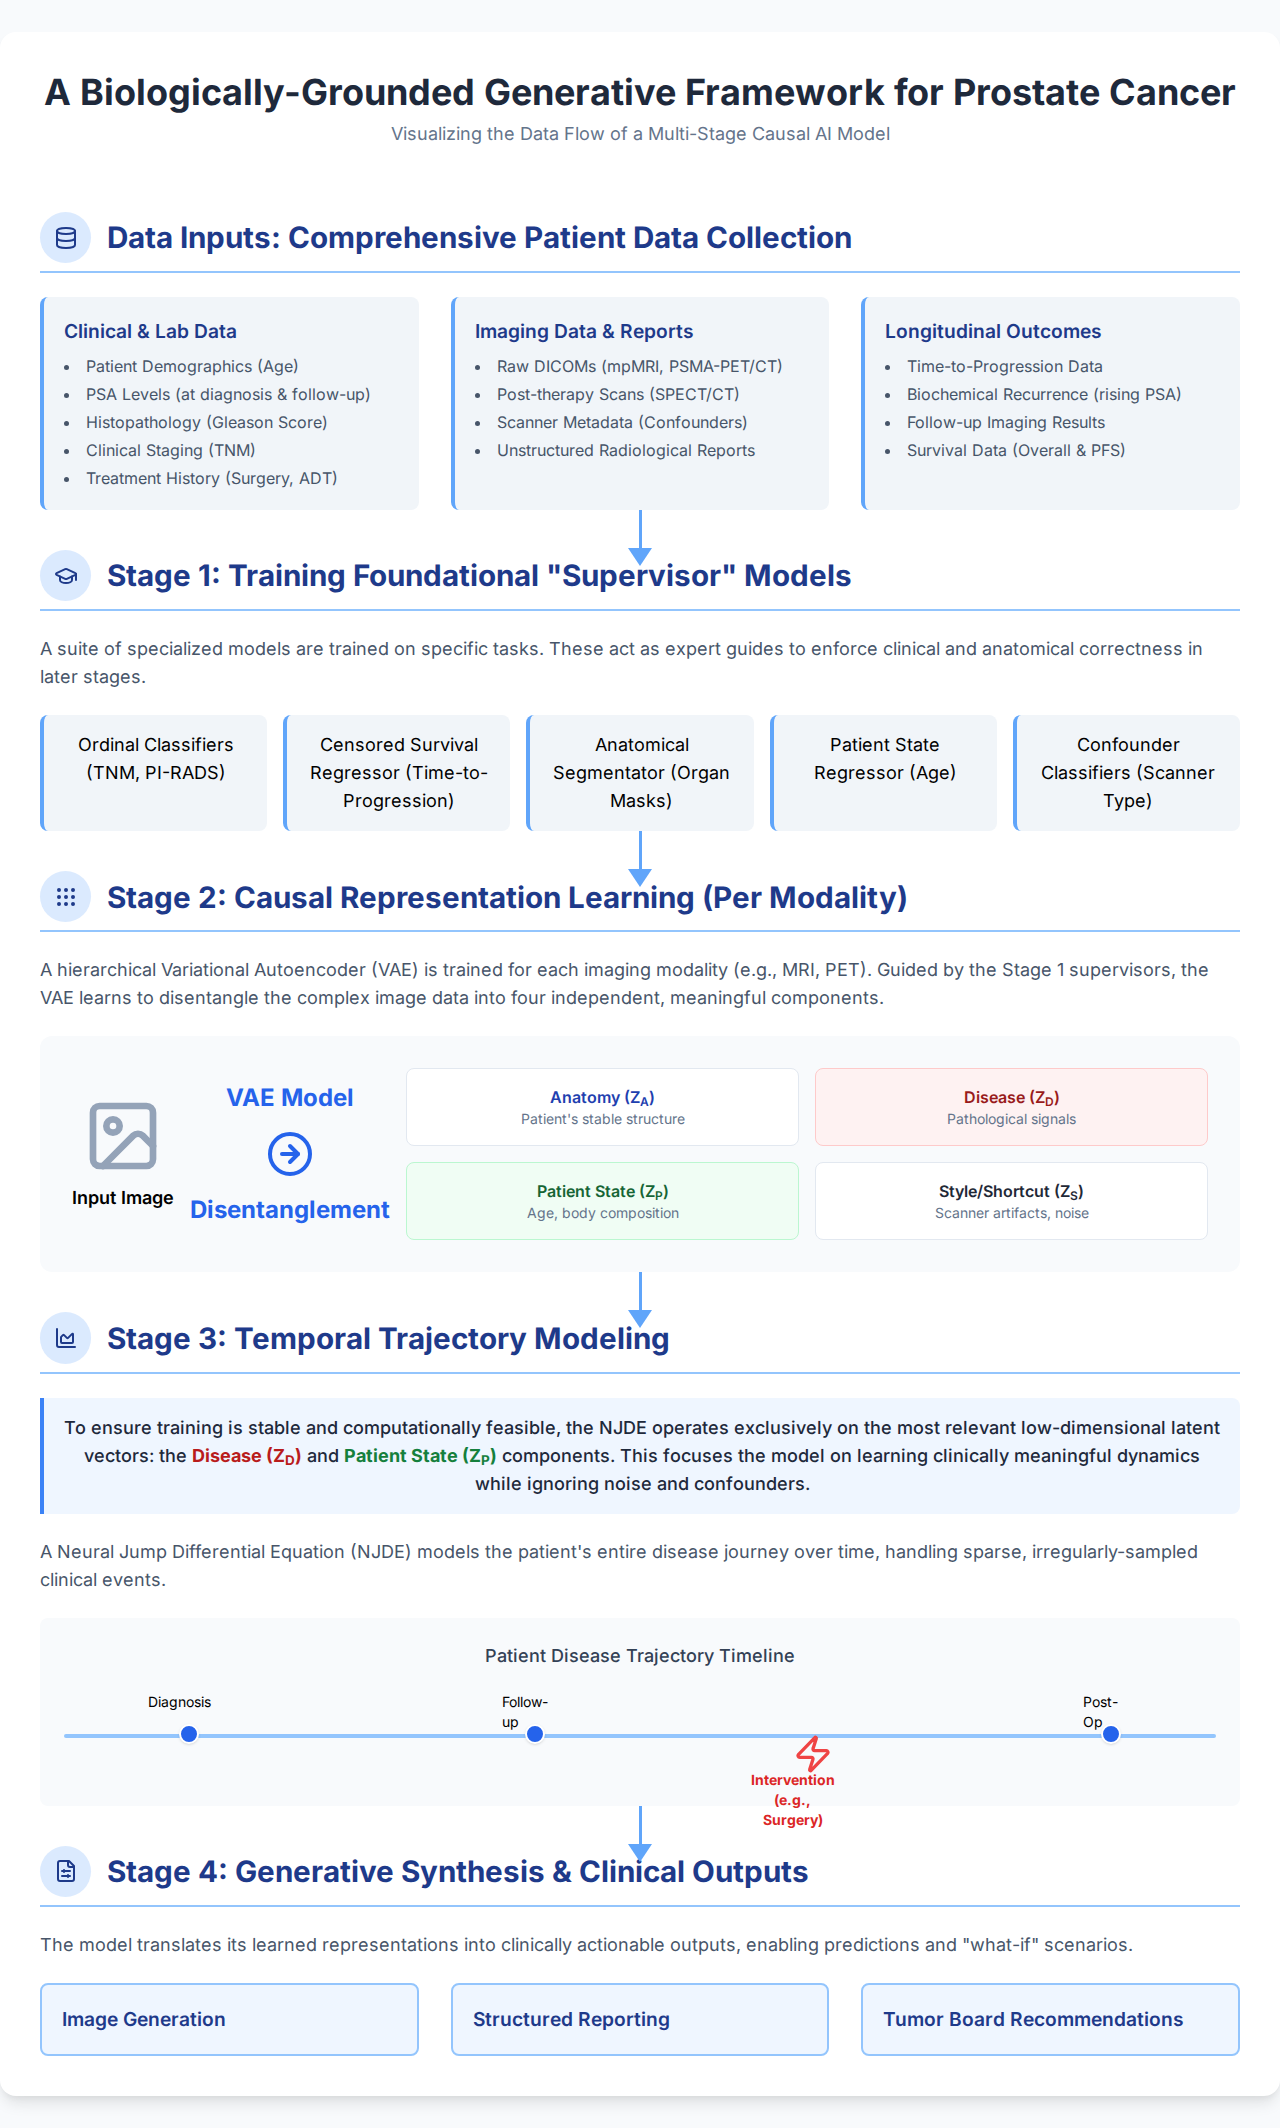
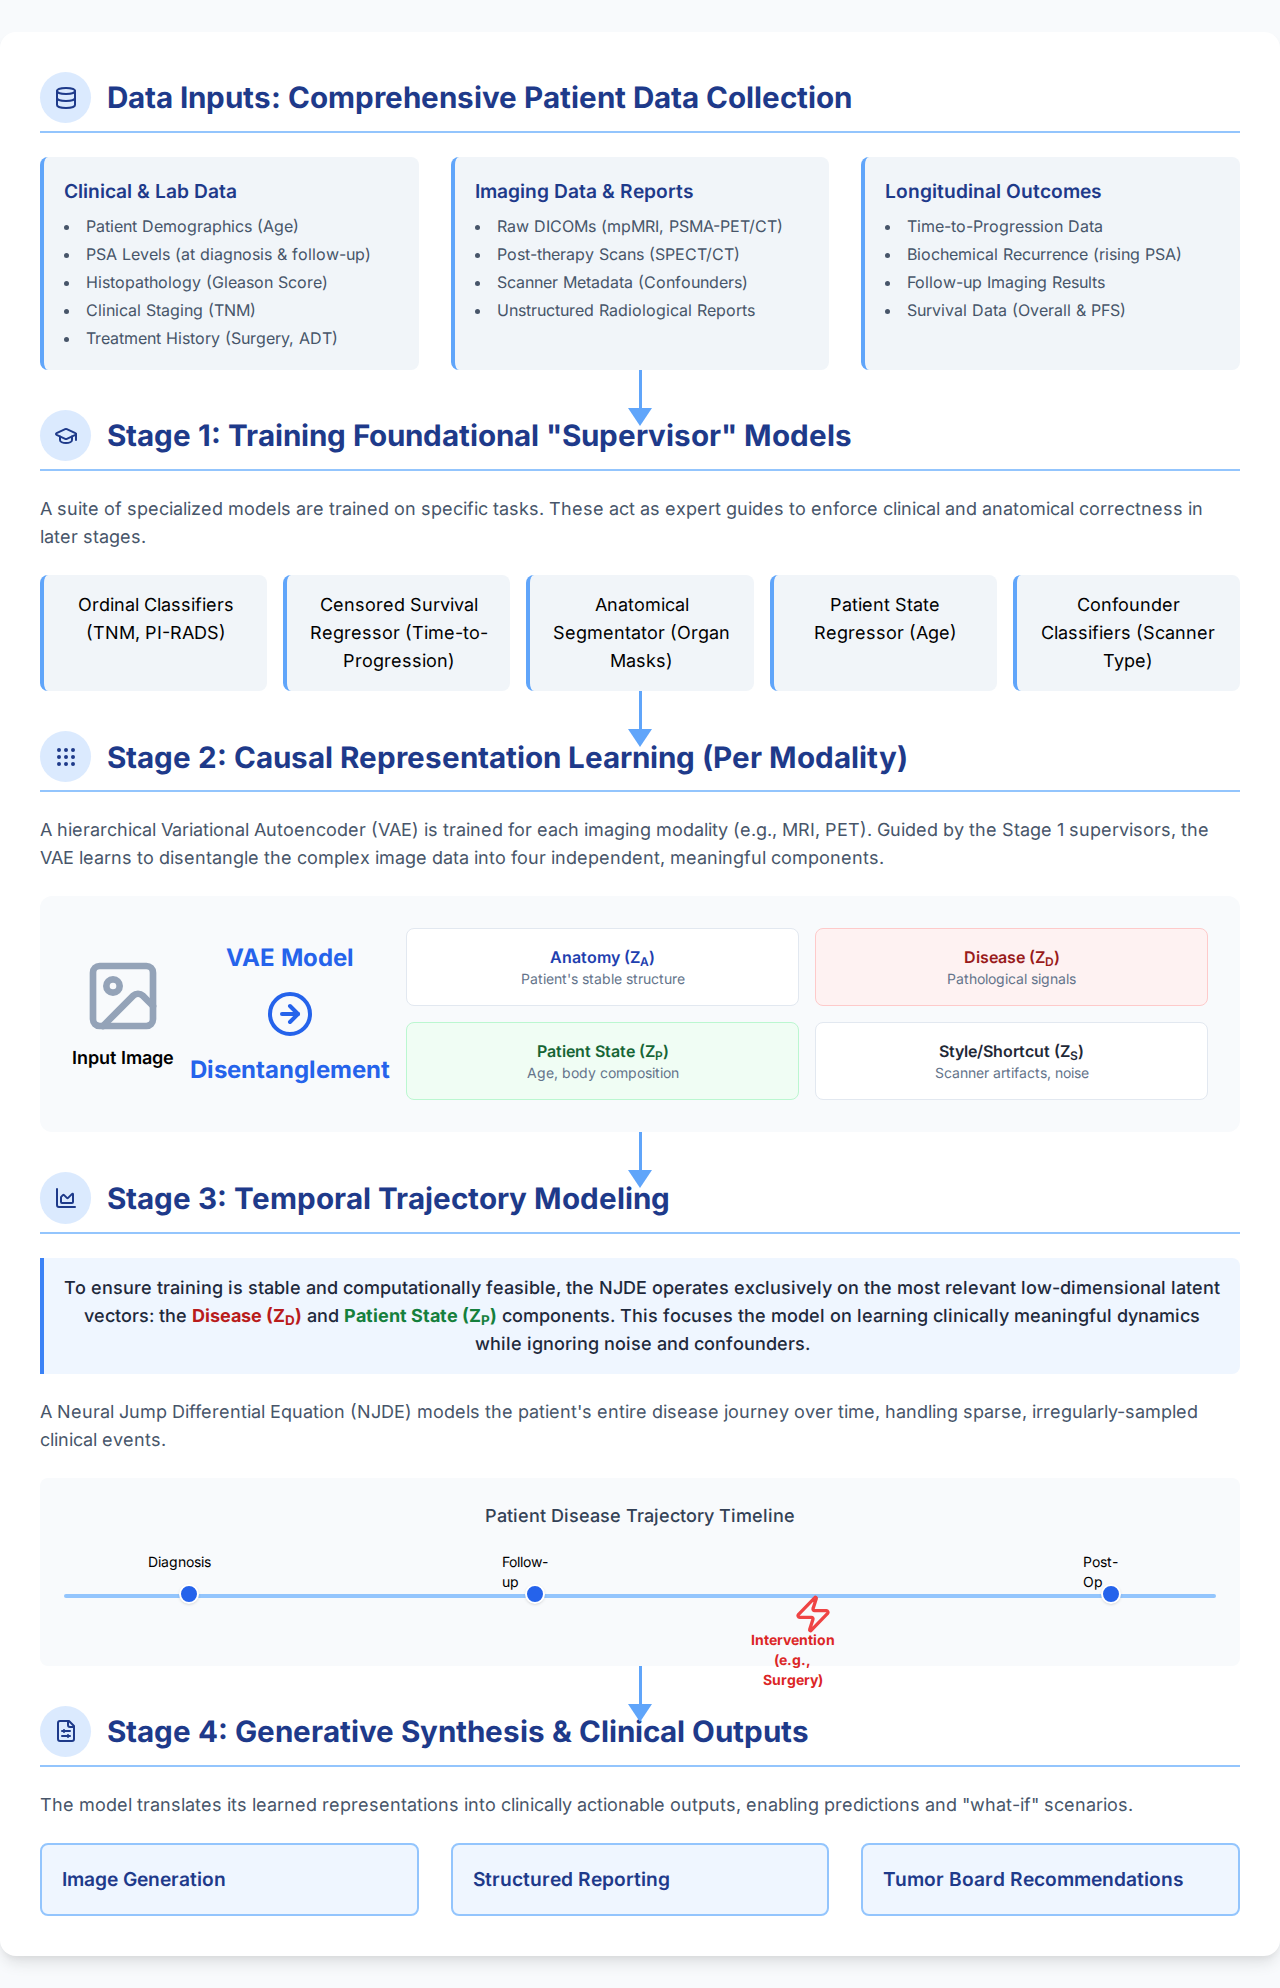
Refine grant proposal and update HTML figure
- Adds an abstract to main_horizon.tex.
- Clarifies that the AI framework supports multiple tumour boards.
- Restructures the "Implementation" section by fusing tables and reordering content for better readability.
- Elaborates on verifiable milestones with quantifiable metrics.
- Corrects a broken table reference.
- Removes the title and header from ml.html to fix a layout issue.

Changed region(s): [[0.0312, 0.0312, 0.9688, 0.9668], [0.0938, 0.7797, 0.1875, 0.8421], [0.8438, 0.7797, 0.875, 0.8421]]

diff --git a/ml.html b/ml.html
@@ -3,7 +3,6 @@
 <head>
     <meta charset="UTF-8">
     <meta name="viewport" content="width=device-width, initial-scale=1.0">
-    <title>Data Flow: A Biologically-Grounded Generative Framework for Prostate Cancer</title>
     <script src="https://cdn.tailwindcss.com"></script>
     <link href="https://fonts.googleapis.com/css2?family=Inter:wght@400;500;600;700&display=swap" rel="stylesheet">
     <script src="https://unpkg.com/lucide@latest"></script>
@@ -111,12 +110,6 @@
 <body class="bg-slate-50">
 
     <div class="infographic-container">
-        <!-- Header -->
-        <header class="text-center mb-16">
-            <h1 class="text-4xl font-bold text-slate-800">A Biologically-Grounded Generative Framework for Prostate Cancer</h1>
-            <p class="text-slate-500 mt-2 text-lg">Visualizing the Data Flow of a Multi-Stage Causal AI Model</p>
-        </header>
-
         <!-- Section 1: Data Inputs -->
         <section id="inputs">
             <h2 class="stage-title">

diff --git a/main_horizon.tex b/main_horizon.tex
@@ -101,6 +101,10 @@
 
 \maketitle
 
+\begin{abstract}
+This project proposes a paradigm shift in the management of prostate cancer (PCa) by developing a novel, causal AI framework. Moving beyond simple prediction, our goal is to create a transparent "digital twin" that models the entire disease trajectory, from diagnosis through treatment. The framework is designed to integrate heterogeneous, irregularly-sampled data from multiple clinical sites—including imaging (MRI, PET/CT, SPECT/CT), lab values (PSA), and clinical notes—and to support decision-making across multiple tumour boards. By learning to disentangle true pathological signals from confounders, the model will generate clinically-intuitive counterfactuals (e.g., "What would this scan look like without the tumour?"), simulate outcomes for different treatment paths, and quantify its own uncertainty. This high-risk, high-gain project aims to establish a new European standard for trustworthy, explainable, and safe medical AI that enhances clinical decision-making, improves patient outcomes, and aligns with the principles of the EU AI Act.
+\end{abstract}
+
 \section{Excellence}
 
 \subsection{Vision: A Paradigm Shift from Prediction to Causal Understanding}
@@ -132,7 +136,7 @@ The applicant institution is uniquely positioned to succeed in this high-risk, h
 \end{itemize}
 Crucially, the project's leadership team possesses a rare and powerful combination of interdisciplinary expertise. The team includes two medical doctors (MDs) with medical PhDs. One leader combines a specialization in nuclear medicine with a Master's degree in IT, providing a direct bridge between clinical application and technical implementation. The second leader holds a dual specialization in both nuclear medicine and radiology, offering an invaluable holistic perspective on the entire imaging pipeline. This unique blend of expertise, combined with our experience in managing patients through the entire spectrum of both early-stage and advanced therapies, ensures that the project is deeply grounded in both the clinical and technical domains—a critical success factor for this ambitious endeavor. The collaboration with external partners, including the Abteilung für Nuklearmedizin at Universitätsmedizin Halle, Universitätsmedizin Charite, and the Radiological Practice Rad. Sudenburg, will provide access to diverse data and clinical perspectives, further strengthening the project's foundation.
 
-This unique blend of expertise is complemented by the applicant's clinic, which has extensive, hands-on experience in managing patients through the entire spectrum of advanced mCRPC therapies. Late-stage prostate cancer, typically referred to as metastatic castration-resistant prostate cancer (mCRPC), is an incurable and fatal disease, despite substantial therapeutic advances \cite{FizaziHerrmann2023, HatanoNonomura2023}. Managing mCRPC is complex, focusing on extending life, delaying disease progression, and maintaining or improving health-related quality of life (HRQOL) \cite{FizaziHerrmann2023}. Our clinical practice routinely administers a wide array of treatments, including second-generation Androgen Receptor Pathway Inhibitors (ARPIs) like abiraterone, enzalutamide, apalutamide, and darolutamide \cite{FizaziHerrmann2023, HatanoNonomura2023, MaLi2022}; taxane-based chemotherapies such as docetaxel and cabazitaxel \cite{FizaziHerrmann2023, HatanoNonomura2023}; immunotherapy with checkpoint inhibitors like Pembrolizumab \cite{MaLi2022, RamnaraignSartor2023}; precision therapies such as PARP inhibitors (Olaparib) for patients with relevant genetic alterations \cite{HatanoNonomura2023, MaLi2022}; and cutting-edge radioligand therapies (RLT) including Lutetium-177 PSMA and bone-targeted agents like Radium-223 \cite{FizaziHerrmann2023, ChandranFigg2022, Keam2022}. The complexity of these cases necessitates regular multidisciplinary tumor boards, where detailed treatment decisions and patient responses are meticulously documented. This rich, real-world documentation provides an unparalleled source of high-quality data, crucial for training a causal model that can accurately learn the effects of different therapeutic interventions.
+This unique blend of expertise is complemented by the applicant's clinic, which has extensive, hands-on experience in managing patients through the entire spectrum of advanced mCRPC therapies. Late-stage prostate cancer, typically referred to as metastatic castration-resistant prostate cancer (mCRPC), is an incurable and fatal disease, despite substantial therapeutic advances \cite{FizaziHerrmann2023, HatanoNonomura2023}. Managing mCRPC is complex, focusing on extending life, delaying disease progression, and maintaining or improving health-related quality of life (HRQOL) \cite{FizaziHerrmann2023}. Our clinical practice routinely administers a wide array of treatments, including second-generation Androgen Receptor Pathway Inhibitors (ARPIs) like abiraterone, enzalutamide, apalutamide, and darolutamide \cite{FizaziHerrmann2023, HatanoNonomura2023, MaLi2022}; taxane-based chemotherapies such as docetaxel and cabazitaxel \cite{FizaziHerrmann2023, HatanoNonomura2023}; immunotherapy with checkpoint inhibitors like Pembrolizumab \cite{MaLi2022, RamnaraignSartor2023}; precision therapies such as PARP inhibitors (Olaparib) for patients with relevant genetic alterations \cite{HatanoNonomura2023, MaLi2022}; and cutting-edge radioligand therapies (RLT) including Lutetium-177 PSMA and bone-targeted agents like Radium-223 \cite{FizaziHerrmann2023, ChandranFigg2022, Keam2022}. The complexity of these cases necessitates regular multidisciplinary tumor boards, where detailed treatment decisions and patient responses are meticulously documented. Our framework is explicitly designed to support and integrate data from multiple such tumour boards across our collaborating institutions, learning from the collective expertise. This rich, real-world documentation provides an unparalleled source of high-quality data, crucial for training a causal model that can accurately learn the effects of different therapeutic interventions.
 
 A key strength of this project is its foundation in a cutting-edge clinical environment defined by the use of Lutetium-177 PSMA (${}^{177}\text{Lu-PSMA-617}$) theranostics, a revolutionary and modern approach for managing mCRPC. This paradigm combines therapy ("thera") and diagnostics ("nostics") by using a single molecular target—the Prostate-Specific Membrane Antigen (PSMA)—for both imaging and treatment, representing a new and very promising therapy \cite{HennrichEder2022}. PSMA is a protein that is highly overexpressed (up to 1,000-fold) on the surface of prostate cancer cells, making it an ideal target \cite{HennrichEder2022, LingBlois2022}.
 
@@ -281,40 +285,37 @@ We are committed to maximizing the impact of this project through a comprehensiv
 
 \section{Implementation}
 
-\subsection{Work Plan}
-The project will be executed over 36 months, organized into seven interconnected Work Packages (WPs). The detailed timeline, deliverables (D), and milestones (M) are visualized in the Gantt chart (Figure \ref{fig:gantt}).
+\subsection{Work Packages, Deliverables, and Milestones}
+The project will be executed over 36 months, organized into seven interconnected Work Packages (WPs). The relationships and timing are visualized in the Gantt chart (Figure \ref{fig:gantt}), which is presented alongside the list of project deliverables to provide a comprehensive overview of the project timeline and its key outputs. The following tables provide a detailed breakdown of the work plan.
+
+\begin{table}[H]
+    \centering
+    \caption{Work Package Descriptions and Person-Month Allocation.}
+    \label{tab:wp_descriptions}
+    \small % Use smaller font for the table
+    \begin{tabular}{lp{4.5cm}lrrr}
+        \toprule
+        \textbf{WP No.} & \textbf{Work Package Title} & \textbf{Lead} & \textbf{Start} & \textbf{End} & \textbf{Person-Months} \\
+        \midrule
+        WP1 & Data Curation and Harmonization & Applicant & M1 & M33 & 30 \\
+        WP2 & Foundational Supervisor Model Training & Applicant & M1 & M15 & 50 \\
+        WP3 & Causal VAE Development & Applicant & M10 & M24 & 60 \\
+        WP4 & Temporal Trajectory Modeling & Applicant & M18 & M30 & 60 \\
+        WP5 & Validation and Clinical Integration & Applicant & M25 & M36 & 30 \\
+        WP6 & Dissemination, Communication, and Exploitation & Applicant & M1 & M36 & 10 \\
+        WP7 & Project Management & Applicant & M1 & M36 & 10 \\
+        \midrule
+        \multicolumn{5}{l}{\textbf{Total}} & \textbf{250} \\
+        \bottomrule
+    \end{tabular}
+\end{table}
 
 \begin{figure}[H]
     \centering
     \includegraphics[width=\textwidth]{gantt.png}
-    \caption{Project Gantt Chart illustrating the timeline, work packages, milestones, and deliverables.}
+    \caption{Project Gantt Chart illustrating the timeline for Work Packages, Deliverables, and Milestones.}
     \label{fig:gantt}
 \end{figure}
-
-\clearpage % Start tables on a new page for better layout
-
-\subsection{Work Packages, Deliverables, and Milestones}
-The project is structured into seven Work Packages (WPs), with their relationships and timing illustrated in the Gantt chart (Figure \ref{fig:gantt}). The following tables provide a detailed breakdown of the work plan, including descriptions of each WP, a list of key deliverables, verifiable milestones, and person-month allocation.
-
-\begin{table}[H]
-    \centering
-    \caption{Work Package Descriptions.}
-    \label{tab:wp_descriptions}
-    \small % Use smaller font for the table
-    \begin{tabular}{lp{5cm}lrr}
-        \toprule
-        \textbf{WP No.} & \textbf{Work Package Title} & \textbf{Lead} & \textbf{Start} & \textbf{End} \\
-        \midrule
-        WP1 & Data Curation and Harmonization & Applicant & M1 & M33 \\
-        WP2 & Foundational Supervisor Model Training & Applicant & M1 & M15 \\
-        WP3 & Causal VAE Development & Applicant & M10 & M24 \\
-        WP4 & Temporal Trajectory Modeling & Applicant & M18 & M30 \\
-        WP5 & Validation and Clinical Integration & Applicant & M25 & M36 \\
-        WP6 & Dissemination, Communication, and Exploitation & Applicant & M1 & M36 \\
-        WP7 & Project Management & Applicant & M1 & M36 \\
-        \bottomrule
-    \end{tabular}
-\end{table}
 
 \begin{table}[H]
     \centering
@@ -349,32 +350,10 @@ The project is structured into seven Work Packages (WPs), with their relationshi
         \textbf{MS No.} & \textbf{Milestone Name} & \textbf{WP} & \textbf{Due} & \textbf{Means of Verification} \\
         \midrule
         M1 & Project Kick-off and Risk Register established & WP7 & M1 & Kick-off meeting minutes; Initial Risk Register document available. \\
-        M2 & Supervisor models achieve >0.85 AUC on internal test set & WP2 & M15 & Validation report for supervisor models. \\
-        M3 & VAE models demonstrate successful disentanglement & WP3 & M24 & Report with quantitative disentanglement metrics and qualitative results. \\
-        M4 & NJDE model successfully predicts patient trajectories & WP4 & M30 & Report on temporal model performance with masked loss evaluation. \\
-        M5 & Final integrated model validated in clinical study & WP5 & M36 & Final validation report including clinical plausibility study results. \\
-        \bottomrule
-    \end{tabular}
-\end{table}
-
-\begin{table}[H]
-    \centering
-    \caption{Summary of Person-Months per Work Package.}
-    \label{tab:person_months}
-    \small
-    \begin{tabular}{llr}
-        \toprule
-        \textbf{WP No.} & \textbf{Work Package Title} & \textbf{Person-Months} \\
-        \midrule
-        WP1 & Data Curation and Harmonization & 30 \\
-        WP2 & Foundational Supervisor Model Training & 50 \\
-        WP3 & Causal VAE Development & 60 \\
-        WP4 & Temporal Trajectory Modeling & 60 \\
-        WP5 & Validation and Clinical Integration & 30 \\
-        WP6 & Dissemination, Communication, and Exploitation & 10 \\
-        WP7 & Project Management & 10 \\
-        \midrule
-        \multicolumn{2}{l}{\textbf{Total}} & \textbf{250} \\
+        M2 & Supervisor models achieve target performance & WP2 & M15 & Validation report showing mean accuracy >0.75 on internal test set. \\
+        M3 & VAE models demonstrate successful disentanglement & WP3 & M24 & Report with quantitative disentanglement metrics (measured by reduced mutual information between dimensions of latent space without trained disentanglement) and qualitative results. \\
+        M4 & NJDE model successfully predicts patient trajectories & WP4 & M30 & Report on temporal model performance, with mean accuracy >0.75 for predicting TNM and PSA at different time points. \\
+        M5 & Final model validated for clinical plausibility & WP5 & M36 & Final validation report where a majority of counterfactual images are deemed plausible and useful by testing physicians. \\
         \bottomrule
     \end{tabular}
 \end{table}
@@ -473,7 +452,7 @@ Beyond quantitative metrics, a practical, clinician-in-the-loop study is essenti
 \subsection{Risk Analysis, Mitigation, and AI Act Compliance}
 This is an ambitious, high-risk project at the frontier of AI research. We have identified the primary risks and have developed clear mitigation strategies that are intrinsically linked to our compliance with the EU AI Act. Our risk management process, as detailed in WP7, is continuous and iterative, designed to address risks to health, safety, and fundamental rights throughout the AI system's lifecycle, in direct alignment with \textbf{Article 9} of the Act. Furthermore, our methodology is designed to comply with the ‘do no significant harm’ principle as per Article 17 of the EU Taxonomy Regulation, ensuring our research does not negatively impact environmental objectives.
 
-The critical risks are summarized in Table \ref{tab:risks}.
+The critical risks are summarized in Table~\ref{tab:risks}.
 
 \begin{longtable}{p{0.05\textwidth} p{0.25\textwidth} p{0.1\textwidth} p{0.1\textwidth} p{0.4\textwidth}}
     \caption{Critical Risks and Mitigation Strategies.}
